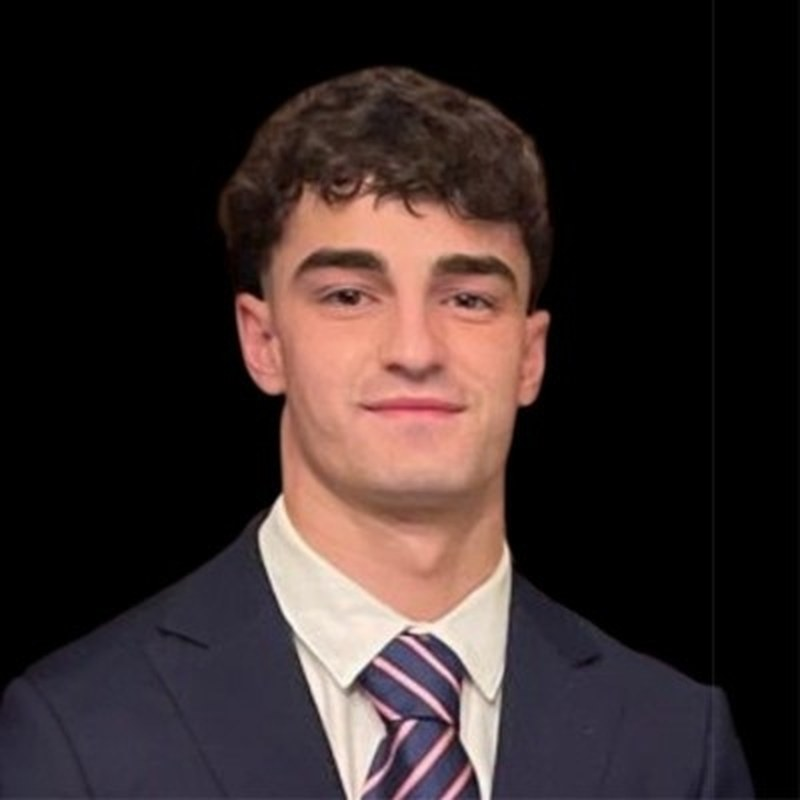
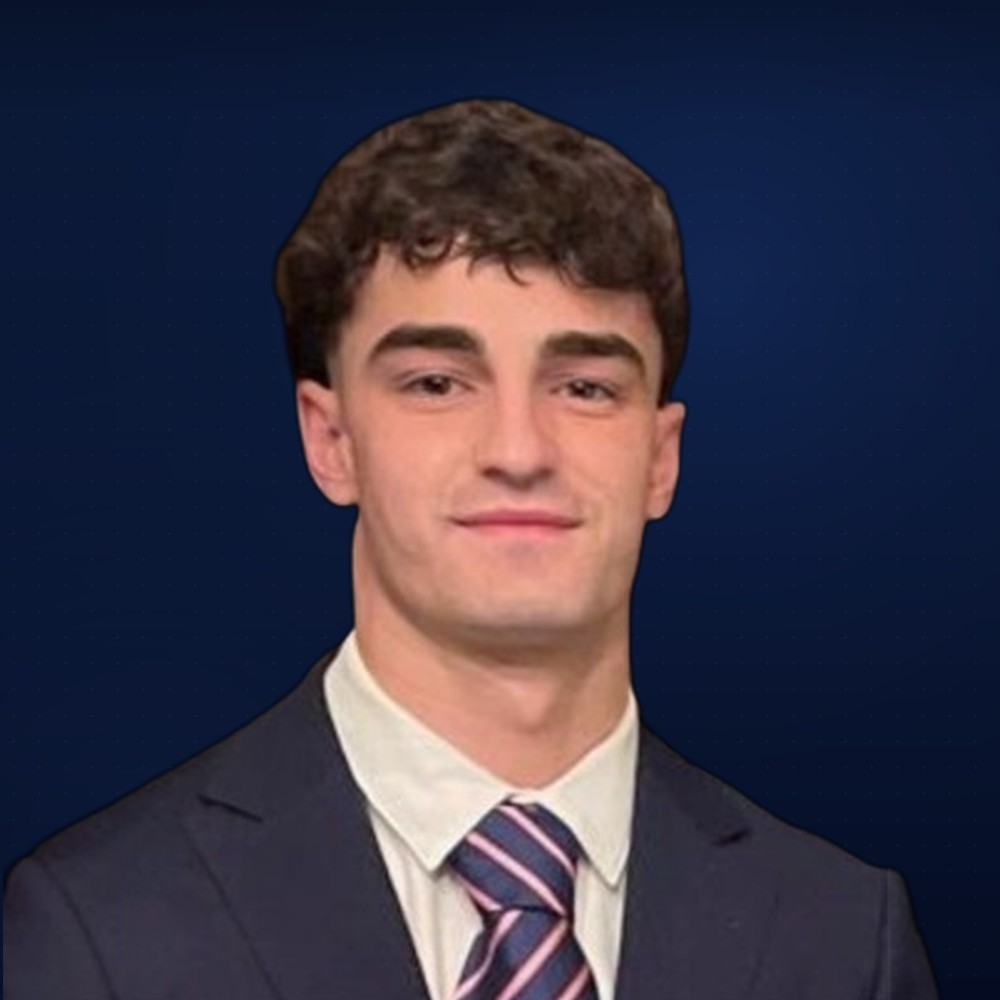
team: new Drew photo + branded navy background on all four portraits

diff --git a/scripts/build_team_photos.py b/scripts/build_team_photos.py
@@ -1,0 +1,253 @@
+"""Build the team portrait set.
+
+For each subject we:
+  1. Download / load the source portrait.
+  2. Remove the background with rembg (u2net) to get a person-only RGBA cutout.
+  3. Center + scale the cutout inside a 1000x1000 canvas that already contains
+     a shared brand background.
+  4. Save the flattened result to assets/images/team/<name>.jpg (JPEG, no alpha).
+
+The shared background is a deep-navy gradient with a soft electric-blue radial
+spotlight and a subtle dot grid — matches the site palette and reads well in
+both B&W (rest state) and full color (hover state).
+"""
+from __future__ import annotations
+
+import io
+import math
+import os
+import sys
+import urllib.request
+from dataclasses import dataclass
+from pathlib import Path
+
+from PIL import Image, ImageDraw, ImageFilter
+from rembg import remove, new_session
+
+ROOT = Path("/home/user/workspace/mfs")
+OUT_DIR = ROOT / "assets/images/team"
+OUT_DIR.mkdir(parents=True, exist_ok=True)
+
+CANVAS = 1000  # final square size
+NAVY_950 = (5, 11, 31)
+NAVY_900 = (11, 27, 58)
+NAVY_800 = (18, 36, 74)
+ELECTRIC = (30, 99, 255)
+ELECTRIC_SOFT = (59, 123, 255)
+
+# ---------------------------------------------------------------------------
+# Shared brand background
+# ---------------------------------------------------------------------------
+
+
+def _radial_gradient(size, inner, outer, center=(0.5, 0.4), radius=0.9):
+    """Return an RGB image with a smooth radial gradient."""
+    w, h = size
+    cx, cy = int(w * center[0]), int(h * center[1])
+    max_r = int(max(w, h) * radius)
+    img = Image.new("RGB", size, outer)
+    px = img.load()
+    for y in range(h):
+        for x in range(w):
+            dx, dy = x - cx, y - cy
+            d = math.sqrt(dx * dx + dy * dy)
+            t = min(1.0, d / max_r)
+            # ease-out cubic for a soft falloff
+            t = 1 - (1 - t) ** 3
+            px[x, y] = (
+                int(inner[0] * (1 - t) + outer[0] * t),
+                int(inner[1] * (1 - t) + outer[1] * t),
+                int(inner[2] * (1 - t) + outer[2] * t),
+            )
+    return img
+
+
+def _dot_grid(size, color=(255, 255, 255), alpha=14, spacing=28, radius=1):
+    """Return an RGBA overlay with a subtle dot grid."""
+    w, h = size
+    overlay = Image.new("RGBA", size, (0, 0, 0, 0))
+    draw = ImageDraw.Draw(overlay)
+    for y in range(spacing // 2, h, spacing):
+        for x in range(spacing // 2, w, spacing):
+            draw.ellipse(
+                [x - radius, y - radius, x + radius, y + radius],
+                fill=(color[0], color[1], color[2], alpha),
+            )
+    return overlay
+
+
+def build_background() -> Image.Image:
+    """Build one canonical background used behind every subject."""
+    size = (CANVAS, CANVAS)
+
+    # Base: vertical gradient navy_800 -> navy_950
+    base = Image.new("RGB", size, NAVY_950)
+    px = base.load()
+    for y in range(size[1]):
+        t = y / (size[1] - 1)
+        # ease-in curve so top stays warmer navy longer
+        t = t * t
+        px_row = (
+            int(NAVY_800[0] * (1 - t) + NAVY_950[0] * t),
+            int(NAVY_800[1] * (1 - t) + NAVY_950[1] * t),
+            int(NAVY_800[2] * (1 - t) + NAVY_950[2] * t),
+        )
+        for x in range(size[0]):
+            px[x, y] = px_row
+
+    # Electric radial spotlight, offset top-right
+    spotlight = _radial_gradient(
+        size,
+        inner=ELECTRIC_SOFT,
+        outer=NAVY_900,
+        center=(0.72, 0.28),
+        radius=0.85,
+    )
+    # Blend at low opacity so it stays subtle
+    base = Image.blend(base, spotlight, alpha=0.22)
+
+    # Second, warmer spotlight bottom-left for depth
+    warm = _radial_gradient(
+        size,
+        inner=NAVY_800,
+        outer=NAVY_950,
+        center=(0.15, 0.85),
+        radius=0.8,
+    )
+    base = Image.blend(base, warm, alpha=0.35)
+
+    # Dot grid overlay
+    dots = _dot_grid(size, color=(120, 160, 255), alpha=14, spacing=26, radius=1)
+    base_rgba = base.convert("RGBA")
+    base_rgba = Image.alpha_composite(base_rgba, dots)
+
+    # Soft top vignette to focus attention on head area
+    vignette = Image.new("RGBA", size, (0, 0, 0, 0))
+    v_draw = ImageDraw.Draw(vignette)
+    for i in range(0, 120):
+        alpha = int(60 * (1 - i / 120))
+        v_draw.rectangle([0, i, size[0], i + 1], fill=(0, 0, 0, alpha))
+    base_rgba = Image.alpha_composite(base_rgba, vignette)
+
+    return base_rgba.convert("RGB")
+
+
+# ---------------------------------------------------------------------------
+# Subject cutout + composite
+# ---------------------------------------------------------------------------
+
+
+@dataclass
+class Subject:
+    name: str            # output filename stem
+    src: str             # path or URL
+    y_bias: float = 0.0  # positive shifts subject down; keeps top of head off canvas edge
+    scale: float = 1.0   # 1.0 = subject fills 92% of canvas height
+    pre_crop: tuple | None = None  # (left_pct, top_pct, right_pct, bottom_pct) applied before cutout
+
+
+def _load(src: str) -> Image.Image:
+    if src.startswith("http"):
+        req = urllib.request.Request(src, headers={"User-Agent": "Mozilla/5.0"})
+        return Image.open(io.BytesIO(urllib.request.urlopen(req).read()))
+    return Image.open(src)
+
+
+def _apply_pre_crop(img: Image.Image, pct: tuple) -> Image.Image:
+    """Crop by percent from each edge, then mask everything outside a soft ellipse
+    so adjacent people/objects don't get fed into rembg."""
+    w, h = img.size
+    l, t, r, b = pct
+    box = (int(w * l), int(h * t), int(w * (1 - r)), int(h * (1 - b)))
+    return img.crop(box)
+
+
+def cutout(img: Image.Image, session) -> Image.Image:
+    """Return an RGBA image of the subject only."""
+    return remove(img.convert("RGBA"), session=session)
+
+
+def _tight_crop(rgba: Image.Image) -> Image.Image:
+    """Crop the transparent margins around the subject."""
+    bbox = rgba.getbbox()
+    if not bbox:
+        return rgba
+    return rgba.crop(bbox)
+
+
+def composite(subject_rgba: Image.Image, bg: Image.Image, y_bias=0.0, scale=1.0) -> Image.Image:
+    """Fit the subject onto the background canvas."""
+    canvas = bg.copy().convert("RGBA")
+    subj = _tight_crop(subject_rgba)
+
+    # Target height: 92% of canvas by default (people fill the frame like editorial portraits)
+    target_h = int(CANVAS * 0.92 * scale)
+    ratio = target_h / subj.height
+    new_w = int(subj.width * ratio)
+    subj = subj.resize((new_w, target_h), Image.LANCZOS)
+
+    # Feather the alpha edges very slightly so the cutout doesn't look "stickered"
+    r, g, b, a = subj.split()
+    a = a.filter(ImageFilter.GaussianBlur(radius=0.6))
+    subj.putalpha(a)
+
+    # Horizontal center; vertical anchored so head/shoulders sit visually right
+    x = (CANVAS - new_w) // 2
+    # Anchor top of subject near y=4% of canvas, plus optional bias
+    y = int(CANVAS * (0.04 + y_bias))
+    canvas.alpha_composite(subj, (x, y))
+    return canvas.convert("RGB")
+
+
+def main() -> None:
+    bg = build_background()
+    bg.save("/tmp/team_bg.jpg", "JPEG", quality=92)  # sanity export
+
+    session = new_session("u2net")
+
+    subjects = [
+        Subject(
+            name="drew",
+            src=str(ROOT / "assets/images/drew-original.jpg"),
+            y_bias=0.06,
+            scale=0.95,
+        ),
+        Subject(
+            name="joe",
+            src="https://cdn.shopify.com/s/files/1/0561/0530/4256/files/Joe.png?v=1772053276",
+            y_bias=0.04,
+            scale=1.0,
+            # Source photo has an adjacent person on the left. Crop them out before
+            # feeding into rembg so their hair isn't retained.
+            pre_crop=(0.22, 0.05, 0.05, 0.0),
+        ),
+        Subject(
+            name="dakarai",
+            src=str(ROOT / "assets/images/dakarai.jpg"),
+            y_bias=0.04,
+            scale=1.02,
+        ),
+        Subject(
+            name="rodrigo",
+            src=str(ROOT / "assets/images/rodrigo-original.jpg"),
+            y_bias=0.05,
+            scale=1.0,
+        ),
+    ]
+
+    for s in subjects:
+        print(f"[+] {s.name} <- {s.src}")
+        img = _load(s.src)
+        if s.pre_crop:
+            img = _apply_pre_crop(img, s.pre_crop)
+        cut = cutout(img, session)
+        # Debug: save the raw cutout
+        cut.save(f"/tmp/team_cut_{s.name}.png")
+        result = composite(cut, bg, y_bias=s.y_bias, scale=s.scale)
+        out = OUT_DIR / f"{s.name}.jpg"
+        result.save(out, "JPEG", quality=90, optimize=True)
+        print(f"    -> {out} ({out.stat().st_size} bytes)")
+
+
+if __name__ == "__main__":
+    main()
